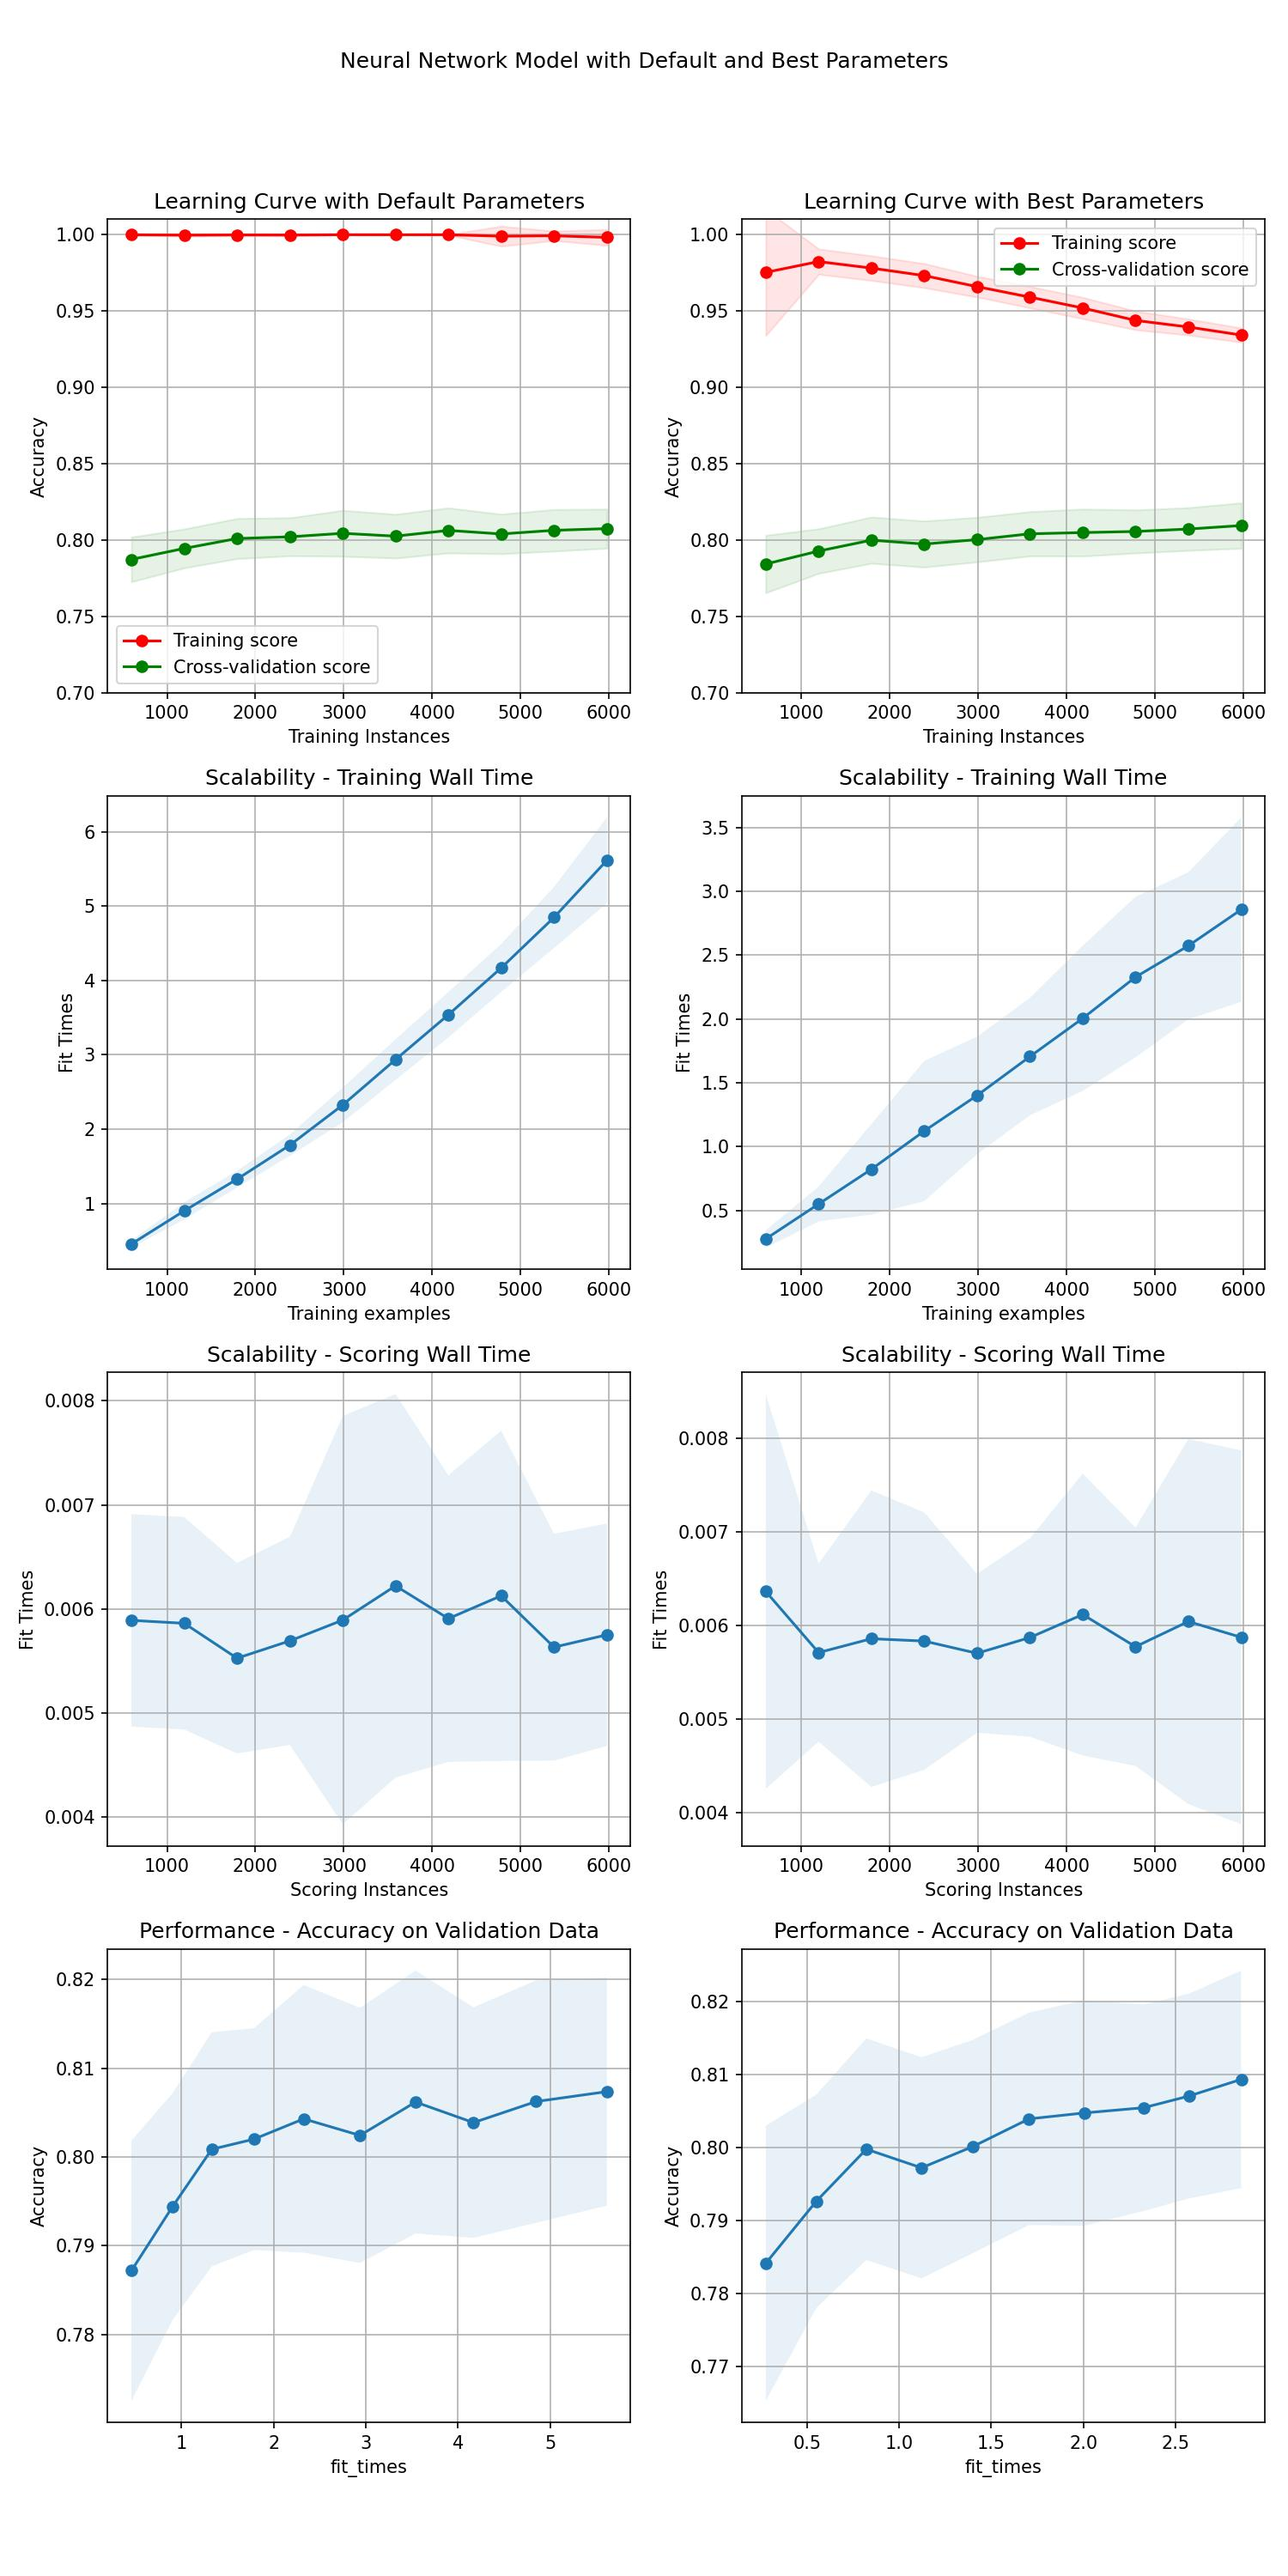
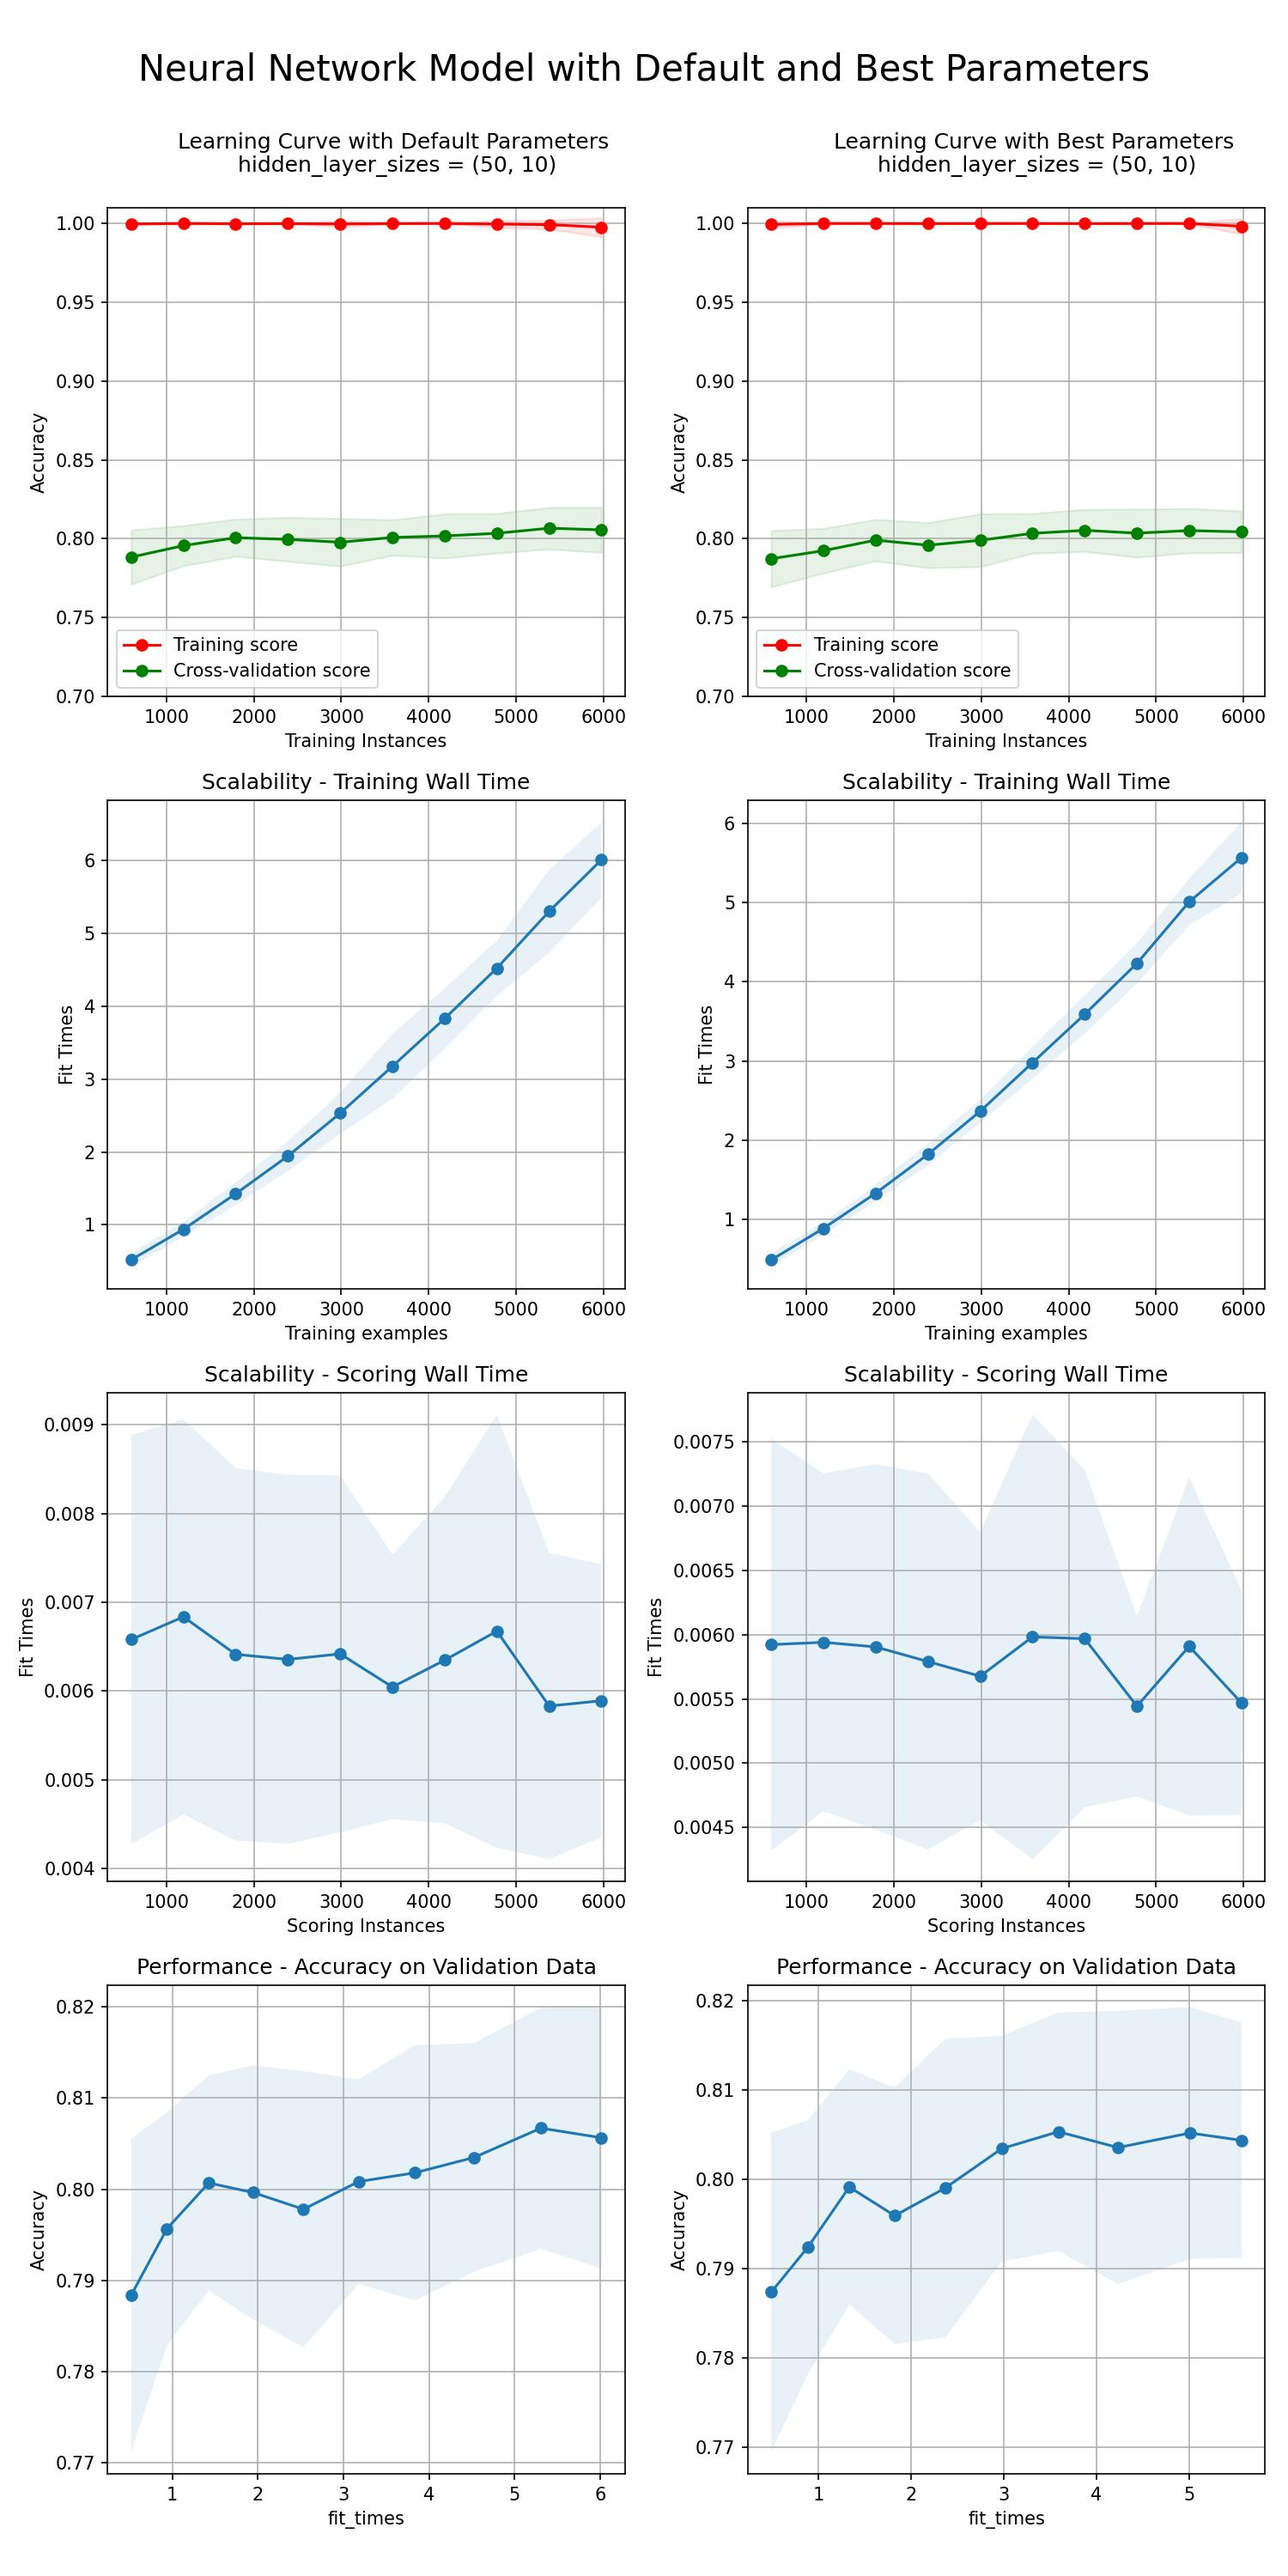
add more

diff --git a/supervised_learning/src/config/config.py b/supervised_learning/src/config/config.py
@@ -16,8 +16,8 @@ MODEL_MAPPING = {
     },
     "Neural Network": {
         "model": MLPClassifier,
-        "params": {"hidden_layer_sizes": (50, 10), "max_iter": 500},
-        "default_value": (50, 10),
+        "params": {"hidden_layer_sizes": (50,), "max_iter": 500},
+        "default_value": (50,),
         "actual_params_name": "hidden_layer_sizes",
         "tuned_params_name": "classifier__hidden_layer_sizes",
     },
@@ -47,7 +47,7 @@ MODEL_MAPPING = {
 MODEL_PARAMS_SPACE = {
     "Decision Tree": {"classifier__ccp_alpha": uniform(0, 1)},
     "Neural Network": {
-        "classifier__hidden_layer_sizes": [(20, 5), (50, 10), (100,)],
+        "classifier__hidden_layer_sizes": [(20, 5), (50, 10), (50,)],
     },
     "AdaBoost": {"classifier__n_estimators": randint(5, 100)},
     "SVC": {"classifier__kernel": ["linear", "poly", "rbf", "sigmoid"]},
